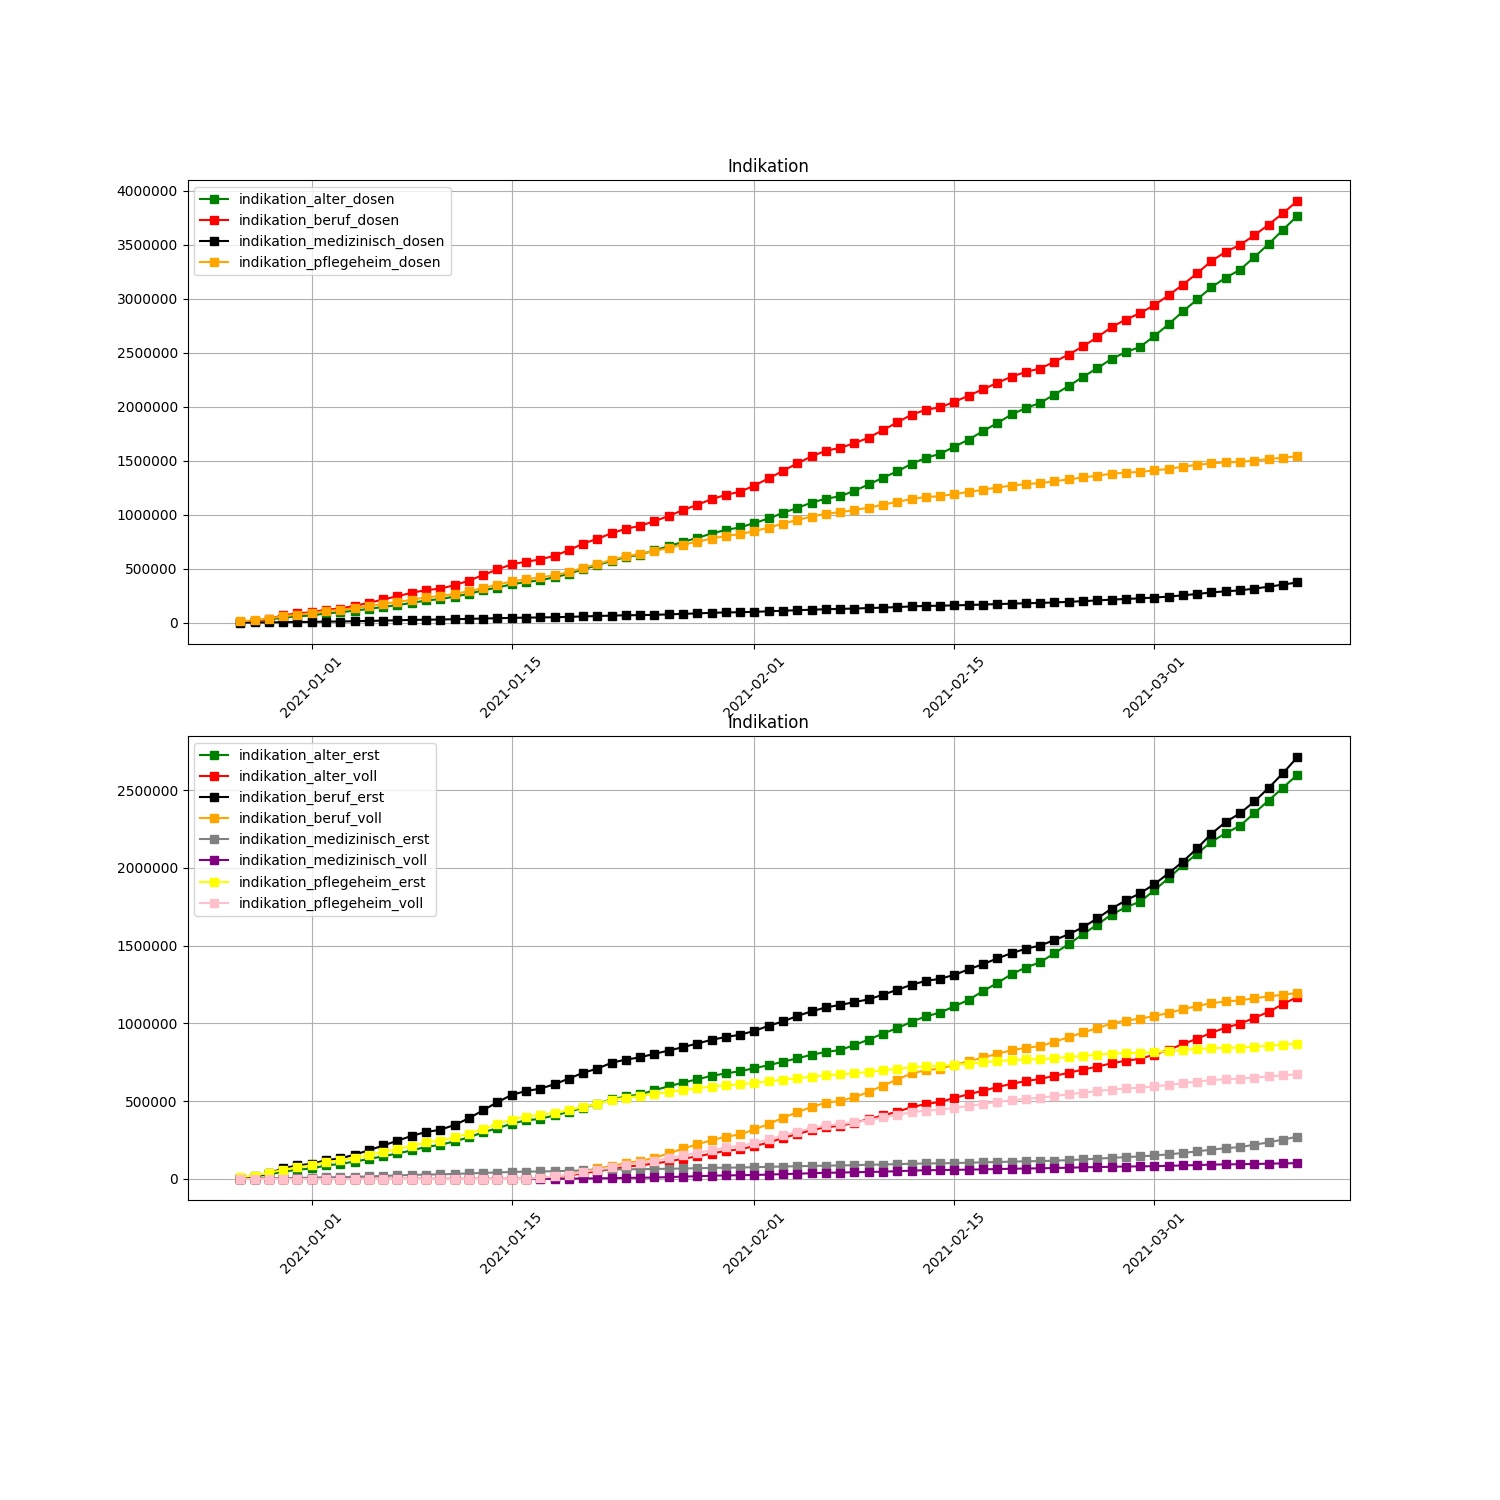
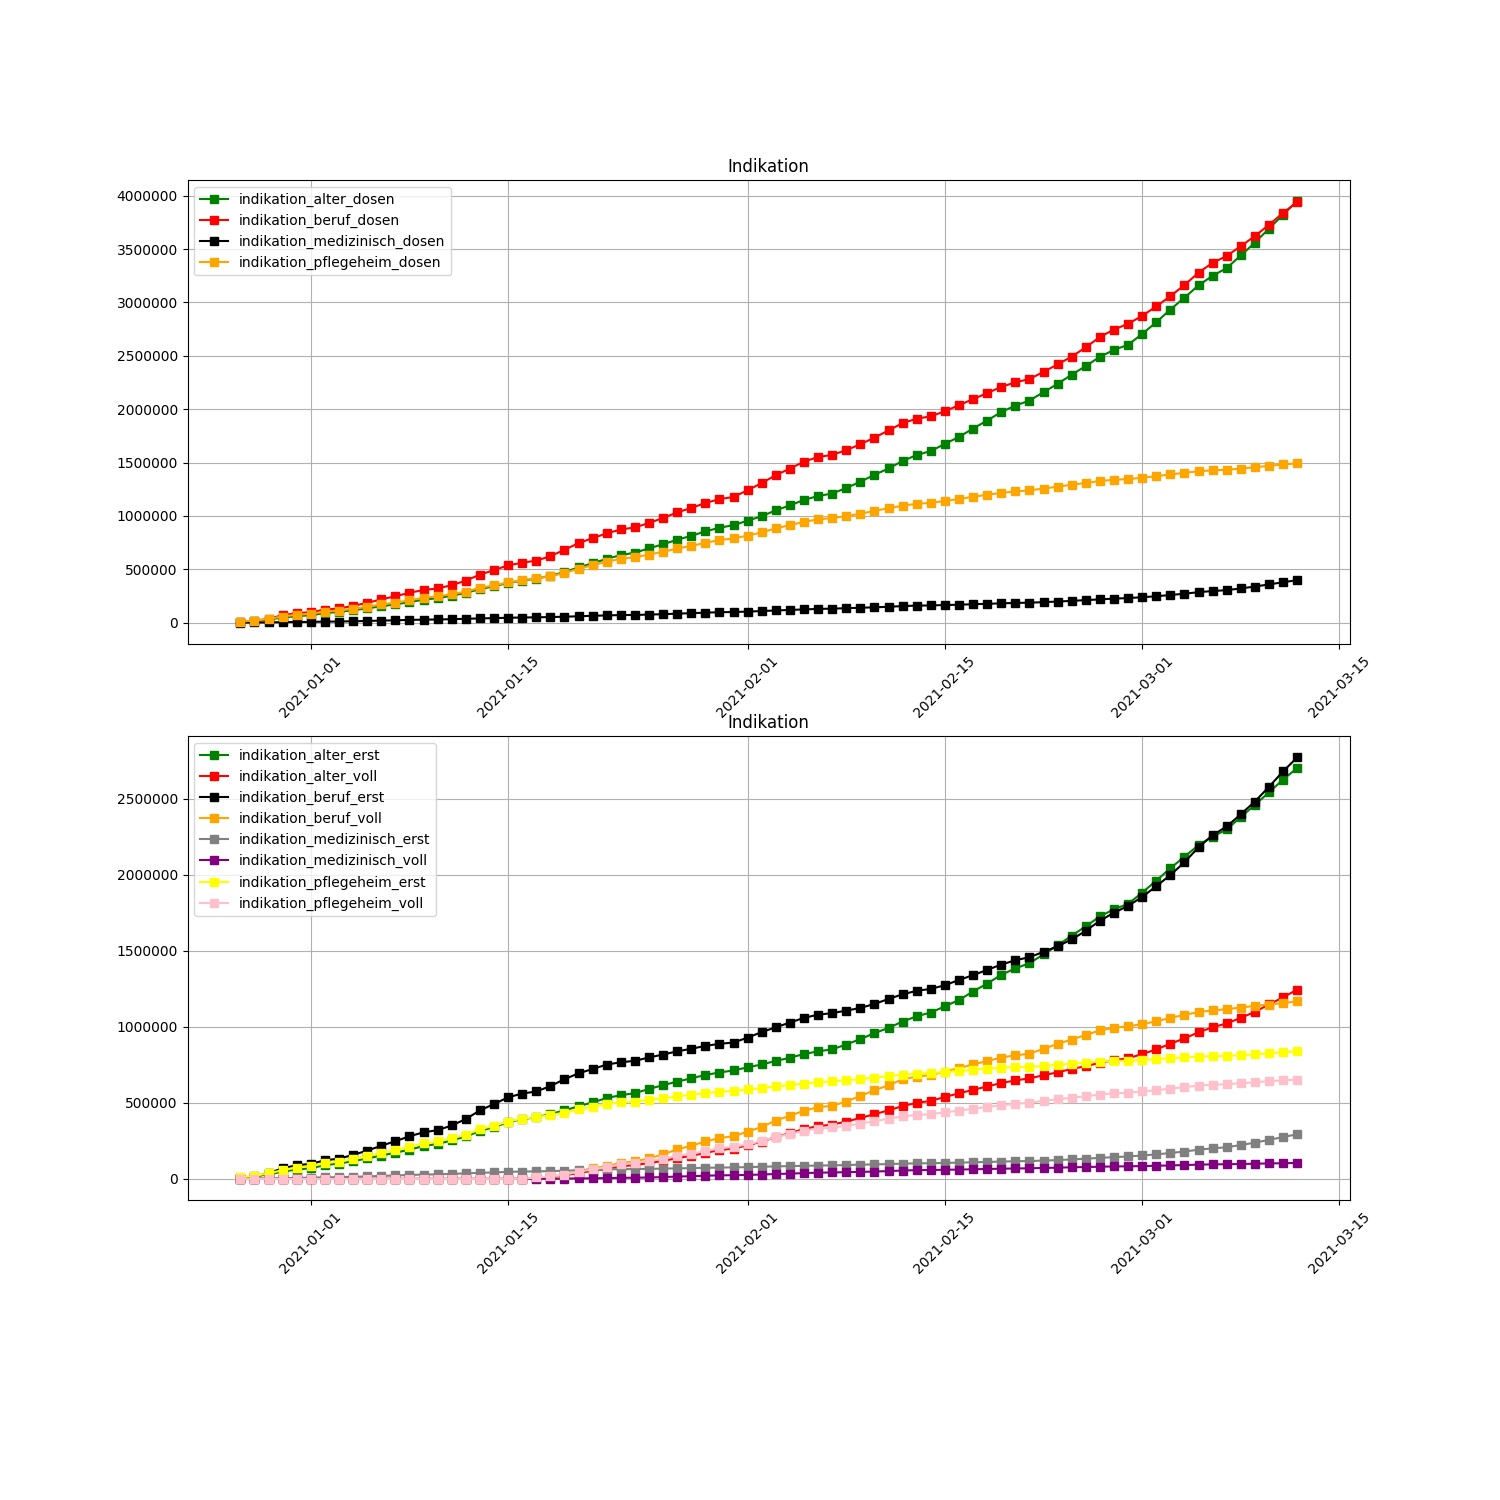
Crontab commit

diff --git a/Readme.md b/Readme.md
@@ -1,19 +1,19 @@
-# Corona vaccine Germany - Stand 2021-03-11
+# Corona vaccine Germany - Stand 2021-03-12
 ## Dashboard by [Simon Hamacher](https://www.shamacher.eu)
 ## Impfstoffe Übersicht
 **Impfstoffhersteller** | **verimpfte Dosen**
 -------- | :--------:
-Biontech | 7082319
-Moderna | 288039
-Astrazeneca | 1346296
+Biontech | 7093082
+Moderna | 298788
+Astrazeneca | 1471400
 
 
 ## Quoten
-**Total Verimpfte Dosen:** | 8716654
+**Total Verimpfte Dosen:** | 8863270
 -------- | :--------:
-**Erst-Impfquote** | 7.19 %
-**Voll-Impfquote** | 3.29 %
-**Imfungen Durchschnitt** | 116222.05 pro Tag
+**Erst-Impfquote** | 7.35 %
+**Voll-Impfquote** | 3.31 %
+**Imfungen Durchschnitt** | 116621.97 pro Tag
 ## Graphen
 <img src="Impfungen-Corona-01.jpg" alt="Corona-1" title="optionaler Titel" />
 <img src="Impfungen-Corona-02.jpg" alt="Corona-2" title="optionaler Titel" />
